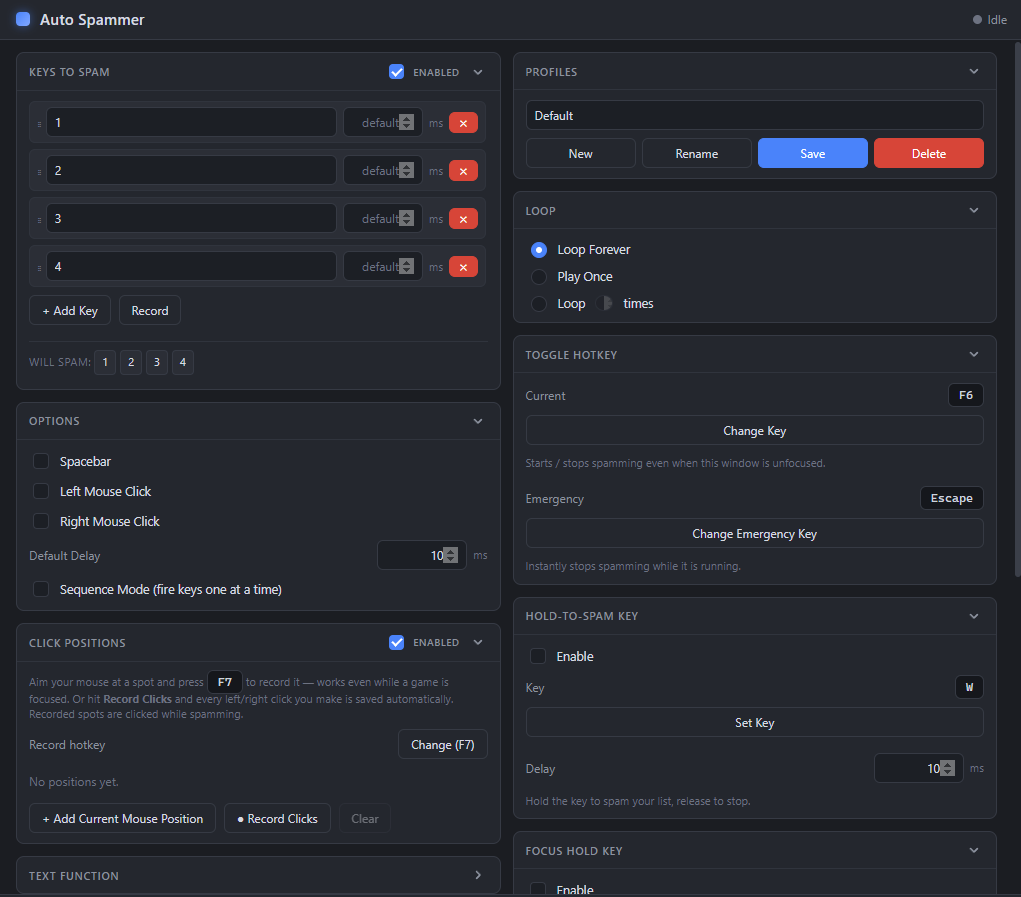
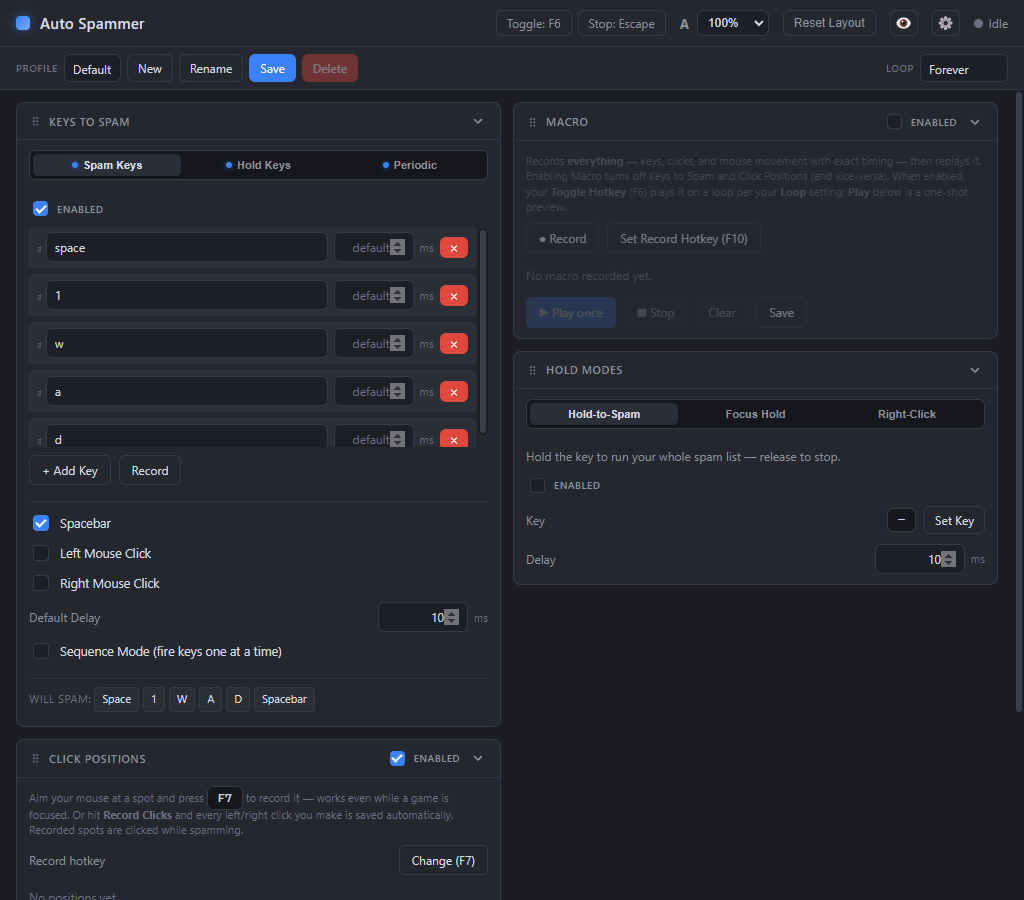
Regenerate screenshots for the current UI; fix stale "Start Spam" text
- docs/showcase-1.png and docs/showcase-2.png are recaptured from the running
  v1.28 app, so they finally match the current UI: top-bar Toggle/Stop hotkeys,
  the Profile + Loop header toolbar, the tabbed Keys to Spam (Spam Keys / Hold
  Keys / Periodic), and the tabbed Hold Modes. The old shots predated all of
  these (Options panel, stacked hold sections, no toolbar, no tabs).
- Fix stale references to the removed "Start Spam" button in helper text:
  MacroPanel and TextFunctionPanel now say the run is started by the Toggle
  Hotkey (F6), matching the current top-bar control.
- Bump to 1.28.1; README download links.

diff --git a/src/renderer/src/components/MacroPanel.tsx b/src/renderer/src/components/MacroPanel.tsx
@@ -68,8 +68,8 @@ export function MacroPanel(): JSX.Element {
       <p className="helper">
         Records <strong>everything</strong> — keys, clicks, and mouse movement with exact timing — then
         replays it. Enabling Macro turns off Keys to Spam and Click Positions (and vice-versa). When
-        enabled, the main <strong>Start Spam</strong> button and the toggle hotkey (F6) play it on a
-        loop per your <strong>Loop</strong> setting; <strong>Play</strong> below is a one-shot preview.
+        enabled, your <strong>Toggle Hotkey</strong> (F6) plays it on a loop per your{' '}
+        <strong>Loop</strong> setting; <strong>Play</strong> below is a one-shot preview.
       </p>
 
       <div className="keylist__actions">
@@ -115,7 +115,7 @@ export function MacroPanel(): JSX.Element {
         <button
           type="button"
           className="btn btn--primary"
-          title="Play the macro once (preview). Use Start Spam / F6 to loop it."
+          title="Play the macro once (preview). Use your Toggle Hotkey (F6) to loop it."
           disabled={events.length === 0 || macroRecording || macroPlaying || spamming}
           onClick={() => void playMacro()}
         >

diff --git a/src/renderer/src/components/TextFunctionPanel.tsx b/src/renderer/src/components/TextFunctionPanel.tsx
@@ -19,13 +19,13 @@ export function TextFunctionPanel(): JSX.Element {
         <SectionToggle
           checked={tf.enabled}
           onChange={(value) => patch({ enabled: value })}
-          title="Type this string each cycle while Start Spam (or F6) is running"
+          title="Type this string each cycle while a run (F6) is active"
         />
       }
     >
       <p className="helper">
-        When <strong>Enabled</strong>, types this string once per cycle alongside{' '}
-        <strong>Start Spam</strong> / <strong>F6</strong>.
+        When <strong>Enabled</strong>, types this string once per cycle while a run is active
+        (your <strong>Toggle Hotkey</strong> / <strong>F6</strong>).
       </p>
 
       <div className="field">

diff --git a/README.md b/README.md
@@ -19,7 +19,7 @@
 
 <!-- DOWNLOAD BUTTONS -->
 <p align="center">
-  <a href="https://github.com/Scarmonit/AutoSpammer/releases/latest/download/AutoSpammer-Portable-1.28.0.exe">
+  <a href="https://github.com/Scarmonit/AutoSpammer/releases/latest/download/AutoSpammer-Portable-1.28.1.exe">
     <img src="https://img.shields.io/badge/Download%20Latest%20Version-Windows-3b82f6?style=for-the-badge&logo=windows&logoColor=white" alt="Download Latest Version (Windows)" height="46" />
   </a>
   &nbsp;
@@ -40,8 +40,8 @@ No setup or extra tools required — each option is a single file you just run.
 
 | Option | Best for | File |
 | --- | --- | --- |
-| **Portable** | Easiest — just run it. Nothing is installed. | **[AutoSpammer-Portable-1.28.0.exe](https://github.com/Scarmonit/AutoSpammer/releases/latest/download/AutoSpammer-Portable-1.28.0.exe)** |
-| **Installer** | Adds Desktop and Start-menu shortcuts. | **[AutoSpammer-Setup-1.28.0.exe](https://github.com/Scarmonit/AutoSpammer/releases/latest/download/AutoSpammer-Setup-1.28.0.exe)** |
+| **Portable** | Easiest — just run it. Nothing is installed. | **[AutoSpammer-Portable-1.28.1.exe](https://github.com/Scarmonit/AutoSpammer/releases/latest/download/AutoSpammer-Portable-1.28.1.exe)** |
+| **Installer** | Adds Desktop and Start-menu shortcuts. | **[AutoSpammer-Setup-1.28.1.exe](https://github.com/Scarmonit/AutoSpammer/releases/latest/download/AutoSpammer-Setup-1.28.1.exe)** |
 
 You can also open the **[latest release page](https://github.com/Scarmonit/AutoSpammer/releases/latest)** and grab either file under **Assets**.
 
